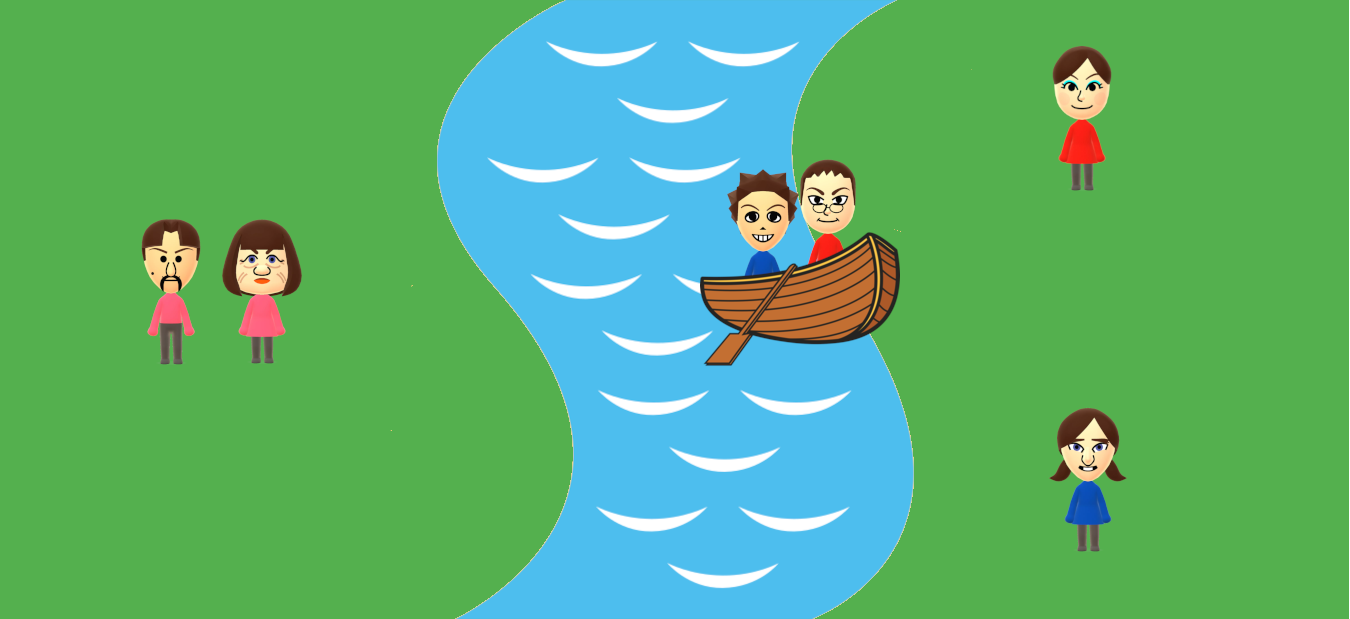
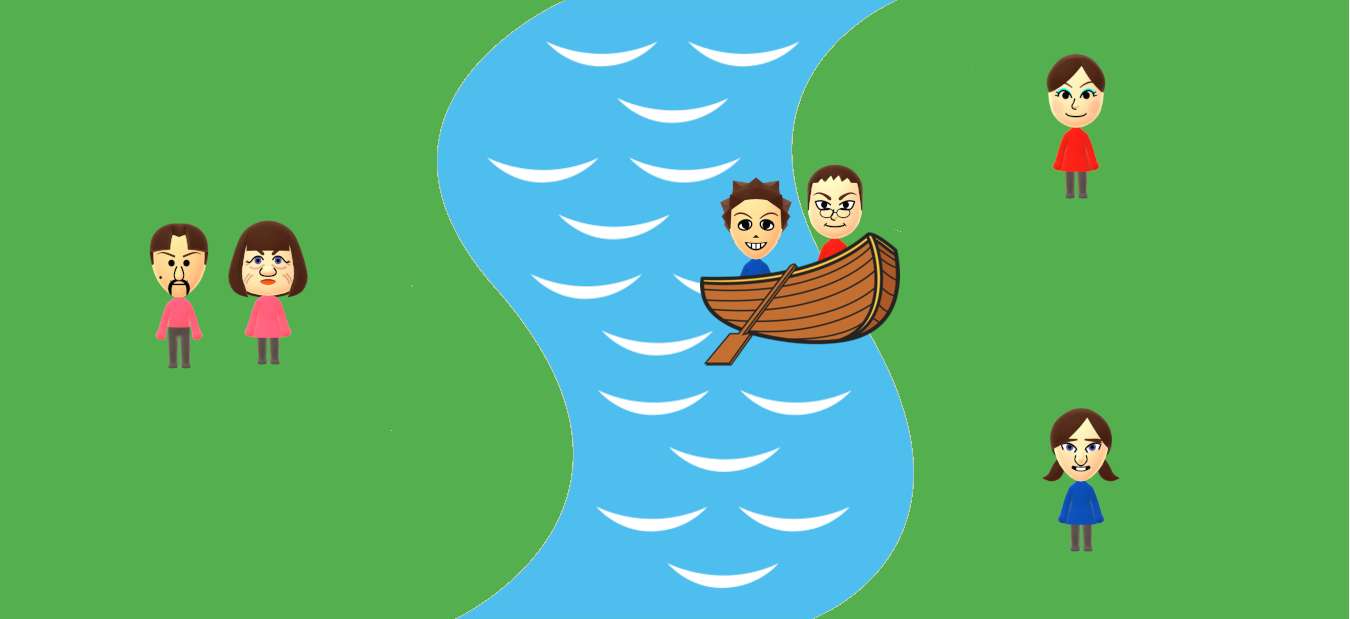
fixed 3 couples

diff --git a/CrossingRiverProblem/crossing_river_files/3Couples/3CouplesGraphics.py b/CrossingRiverProblem/crossing_river_files/3Couples/3CouplesGraphics.py
@@ -44,7 +44,7 @@ for string in var_lettura:
     elif (cont == 4):
         image_name = command + "-2.png"
         image_array.append(image_name)
-    elif (cont == 5):
+    elif (cont == 7):
         image_name = command + "-2.png"
         image_array.append(image_name)
     elif (cont == 8):
